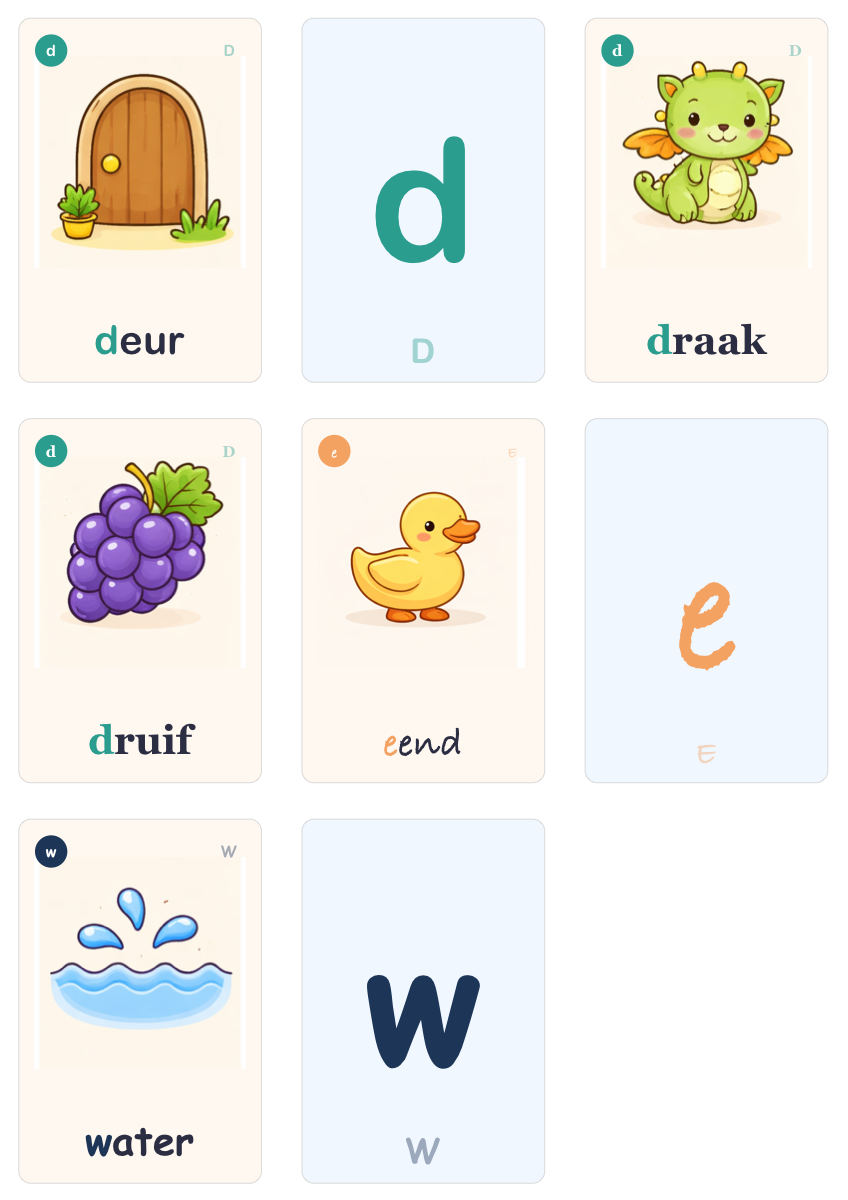
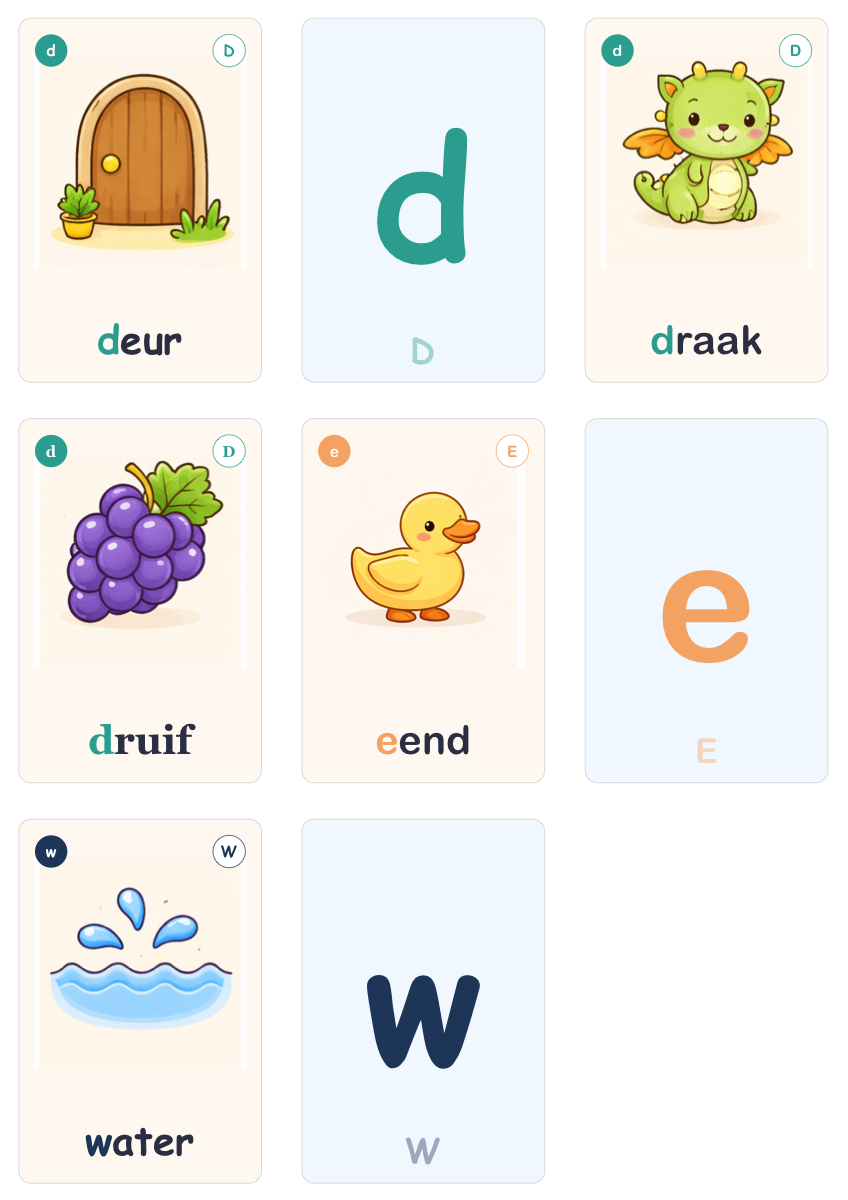
Make uppercase badge an outlined circle instead of ghost text
Addresses PR feedback: uppercase was too easy to miss at 40% opacity.
Now uses a white circle with accent stroke and accent letter — mirrors
the lowercase badge (filled circle) but visually distinct.

diff --git a/generate.py b/generate.py
@@ -257,12 +257,17 @@ def draw_picture_card(c, x, y, word, image_path, font_name, letter):
     lw = pdfmetrics.stringWidth(letter, font_name, badge_font_size)
     c.drawString(badge_cx - lw / 2, badge_cy - badge_font_size * 0.32, letter)
 
-    # Uppercase ghost in top-right corner — subtle introduction of the other form
+    # Uppercase badge in top-right corner — outlined circle, accent color letter
     upper = letter.upper()
+    upper_cx = x + CARD_W - 4 * mm - badge_r
+    upper_cy = badge_cy
+    c.setStrokeColor(accent)
+    c.setFillColor(white)
+    c.circle(upper_cx, upper_cy, badge_r, fill=1, stroke=1)
     c.setFont(font_name, badge_font_size)
-    c.setFillColor(Color(accent.red, accent.green, accent.blue, alpha=0.4))
+    c.setFillColor(accent)
     uw = pdfmetrics.stringWidth(upper, font_name, badge_font_size)
-    c.drawString(x + CARD_W - 4 * mm - badge_r - uw / 2, badge_cy - badge_font_size * 0.32, upper)
+    c.drawString(upper_cx - uw / 2, upper_cy - badge_font_size * 0.32, upper)
 
 
 def draw_letter_card(c, x, y, letter, font_name):
